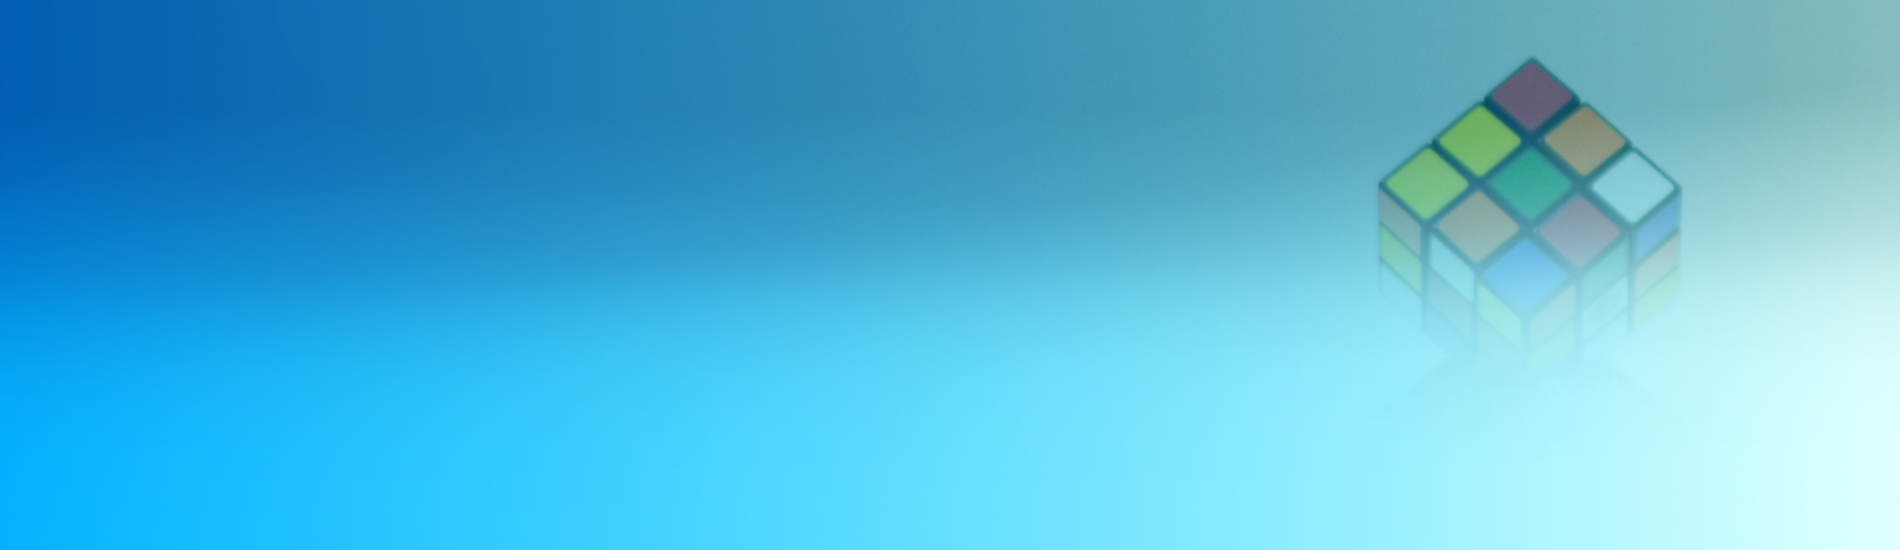
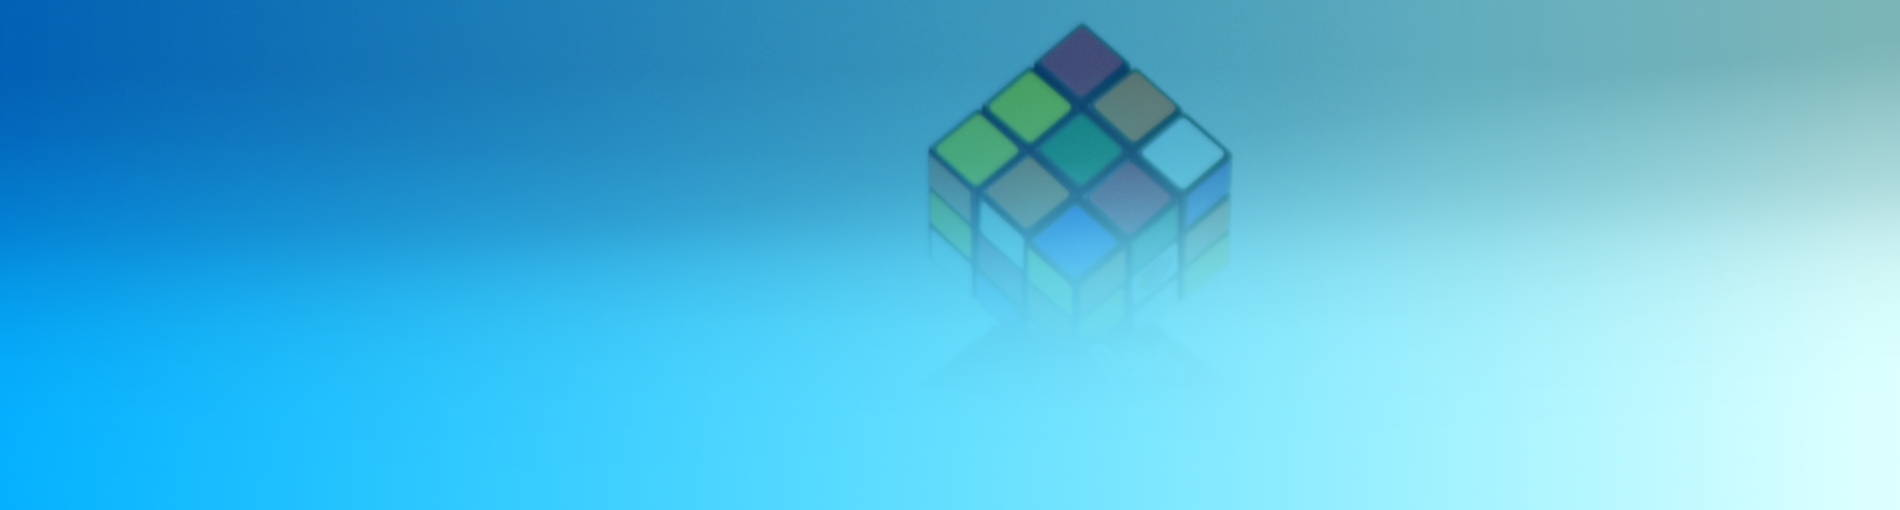
Better header image.

Changed region(s): [[0.7142, 0.1176, 0.9005, 0.5588], [0.4658, 0.0588, 0.6521, 0.4706]]

diff --git a/assets/css/blog.css b/assets/css/blog.css
@@ -18,21 +18,24 @@ h2.post-title {
     text-align: center;
 }
 
+#header-image {
+    height: 340px;
+    background: url('/assets/images/background.jpg') no-repeat center top fixed;
+}
+
 header {
-    padding: 50px 0 20px 0;
     text-align: center;
-    background-image: url('/assets/images/background.jpg');
-    background-position: top center;
+    padding: 50px 0 20px 0;
 }
 
 header,
 header a {
-    color: #202020;
+    color: #404040;
 }
 
 header a:hover {
     text-decoration: none;
-    color: #202020;
+    color: #404040;
 }
 
 article {

diff --git a/_layouts/default.html b/_layouts/default.html
@@ -26,6 +26,9 @@
     </head>
 
     <body>
+        <div id="header-image">
+        </div>
+
         <header>
             <div class="ink-grid">
                 <div class="column-group gutters">
@@ -52,6 +55,7 @@
             <div class="column-group gutters">
                 <div class="all-15 small-100"></div>
                 <div class="all-70 small-100">
+                    <hr />
                     {{ content }}
                 </div>
                 <div class="all-15 small-100"></div>
